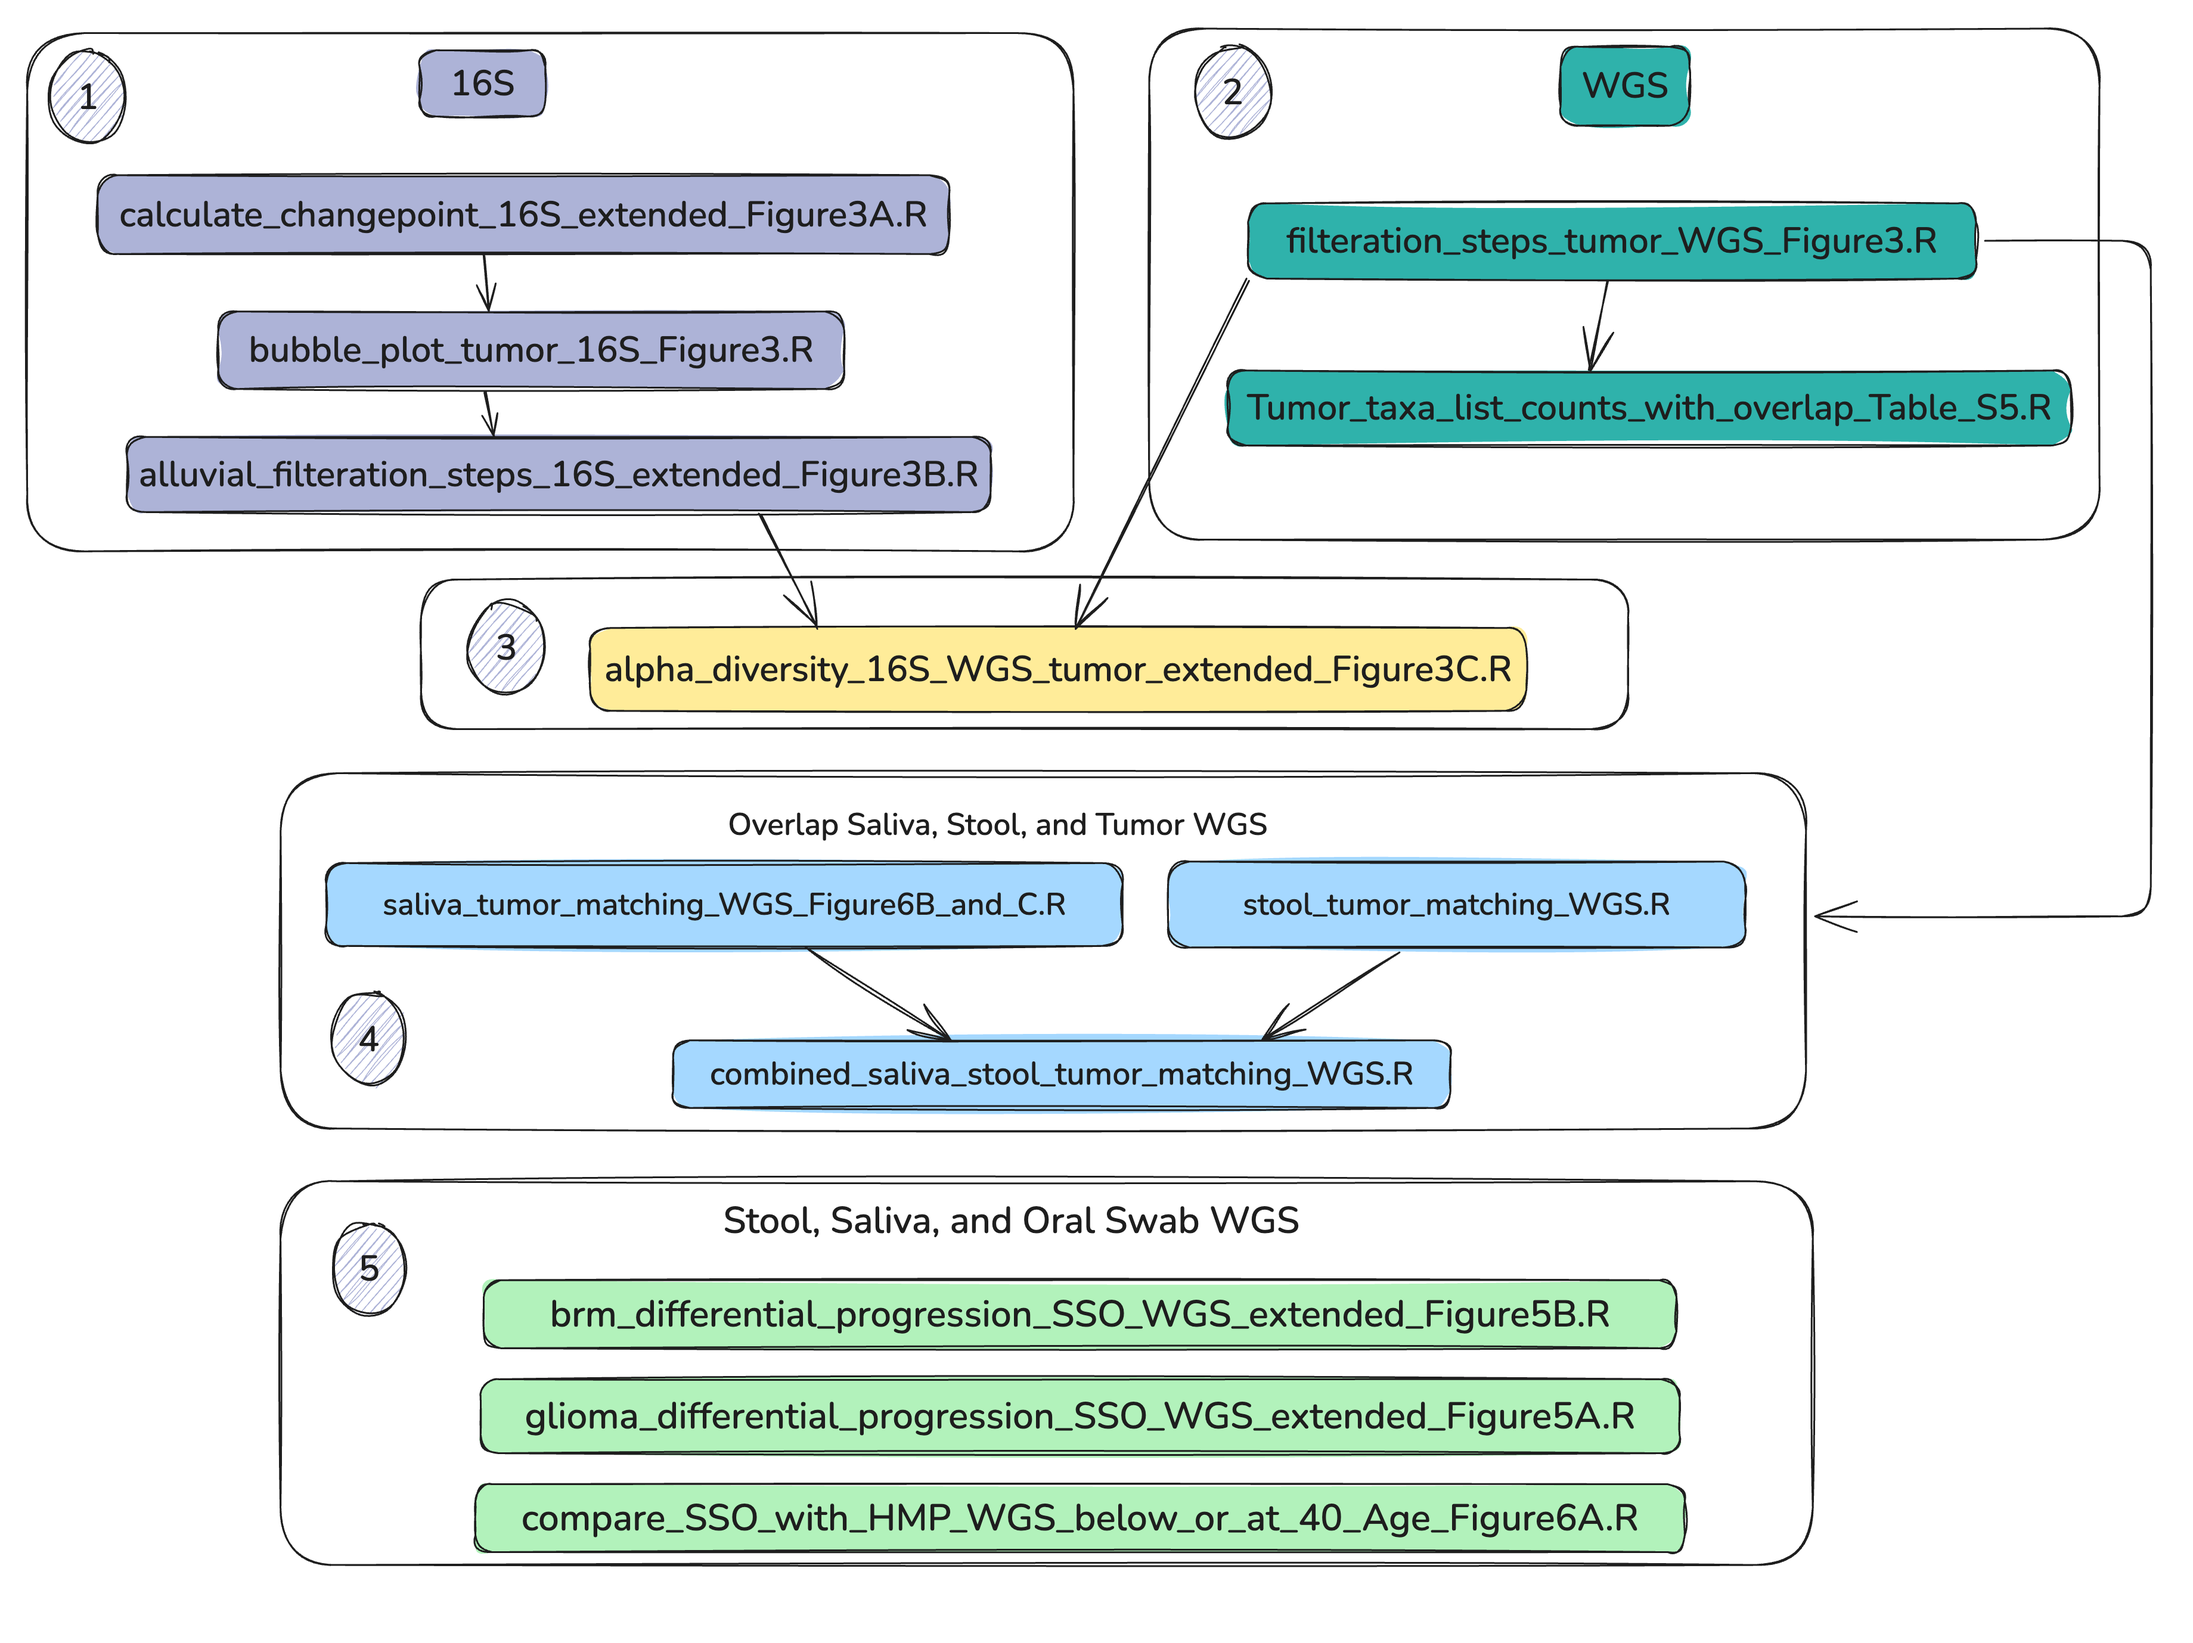
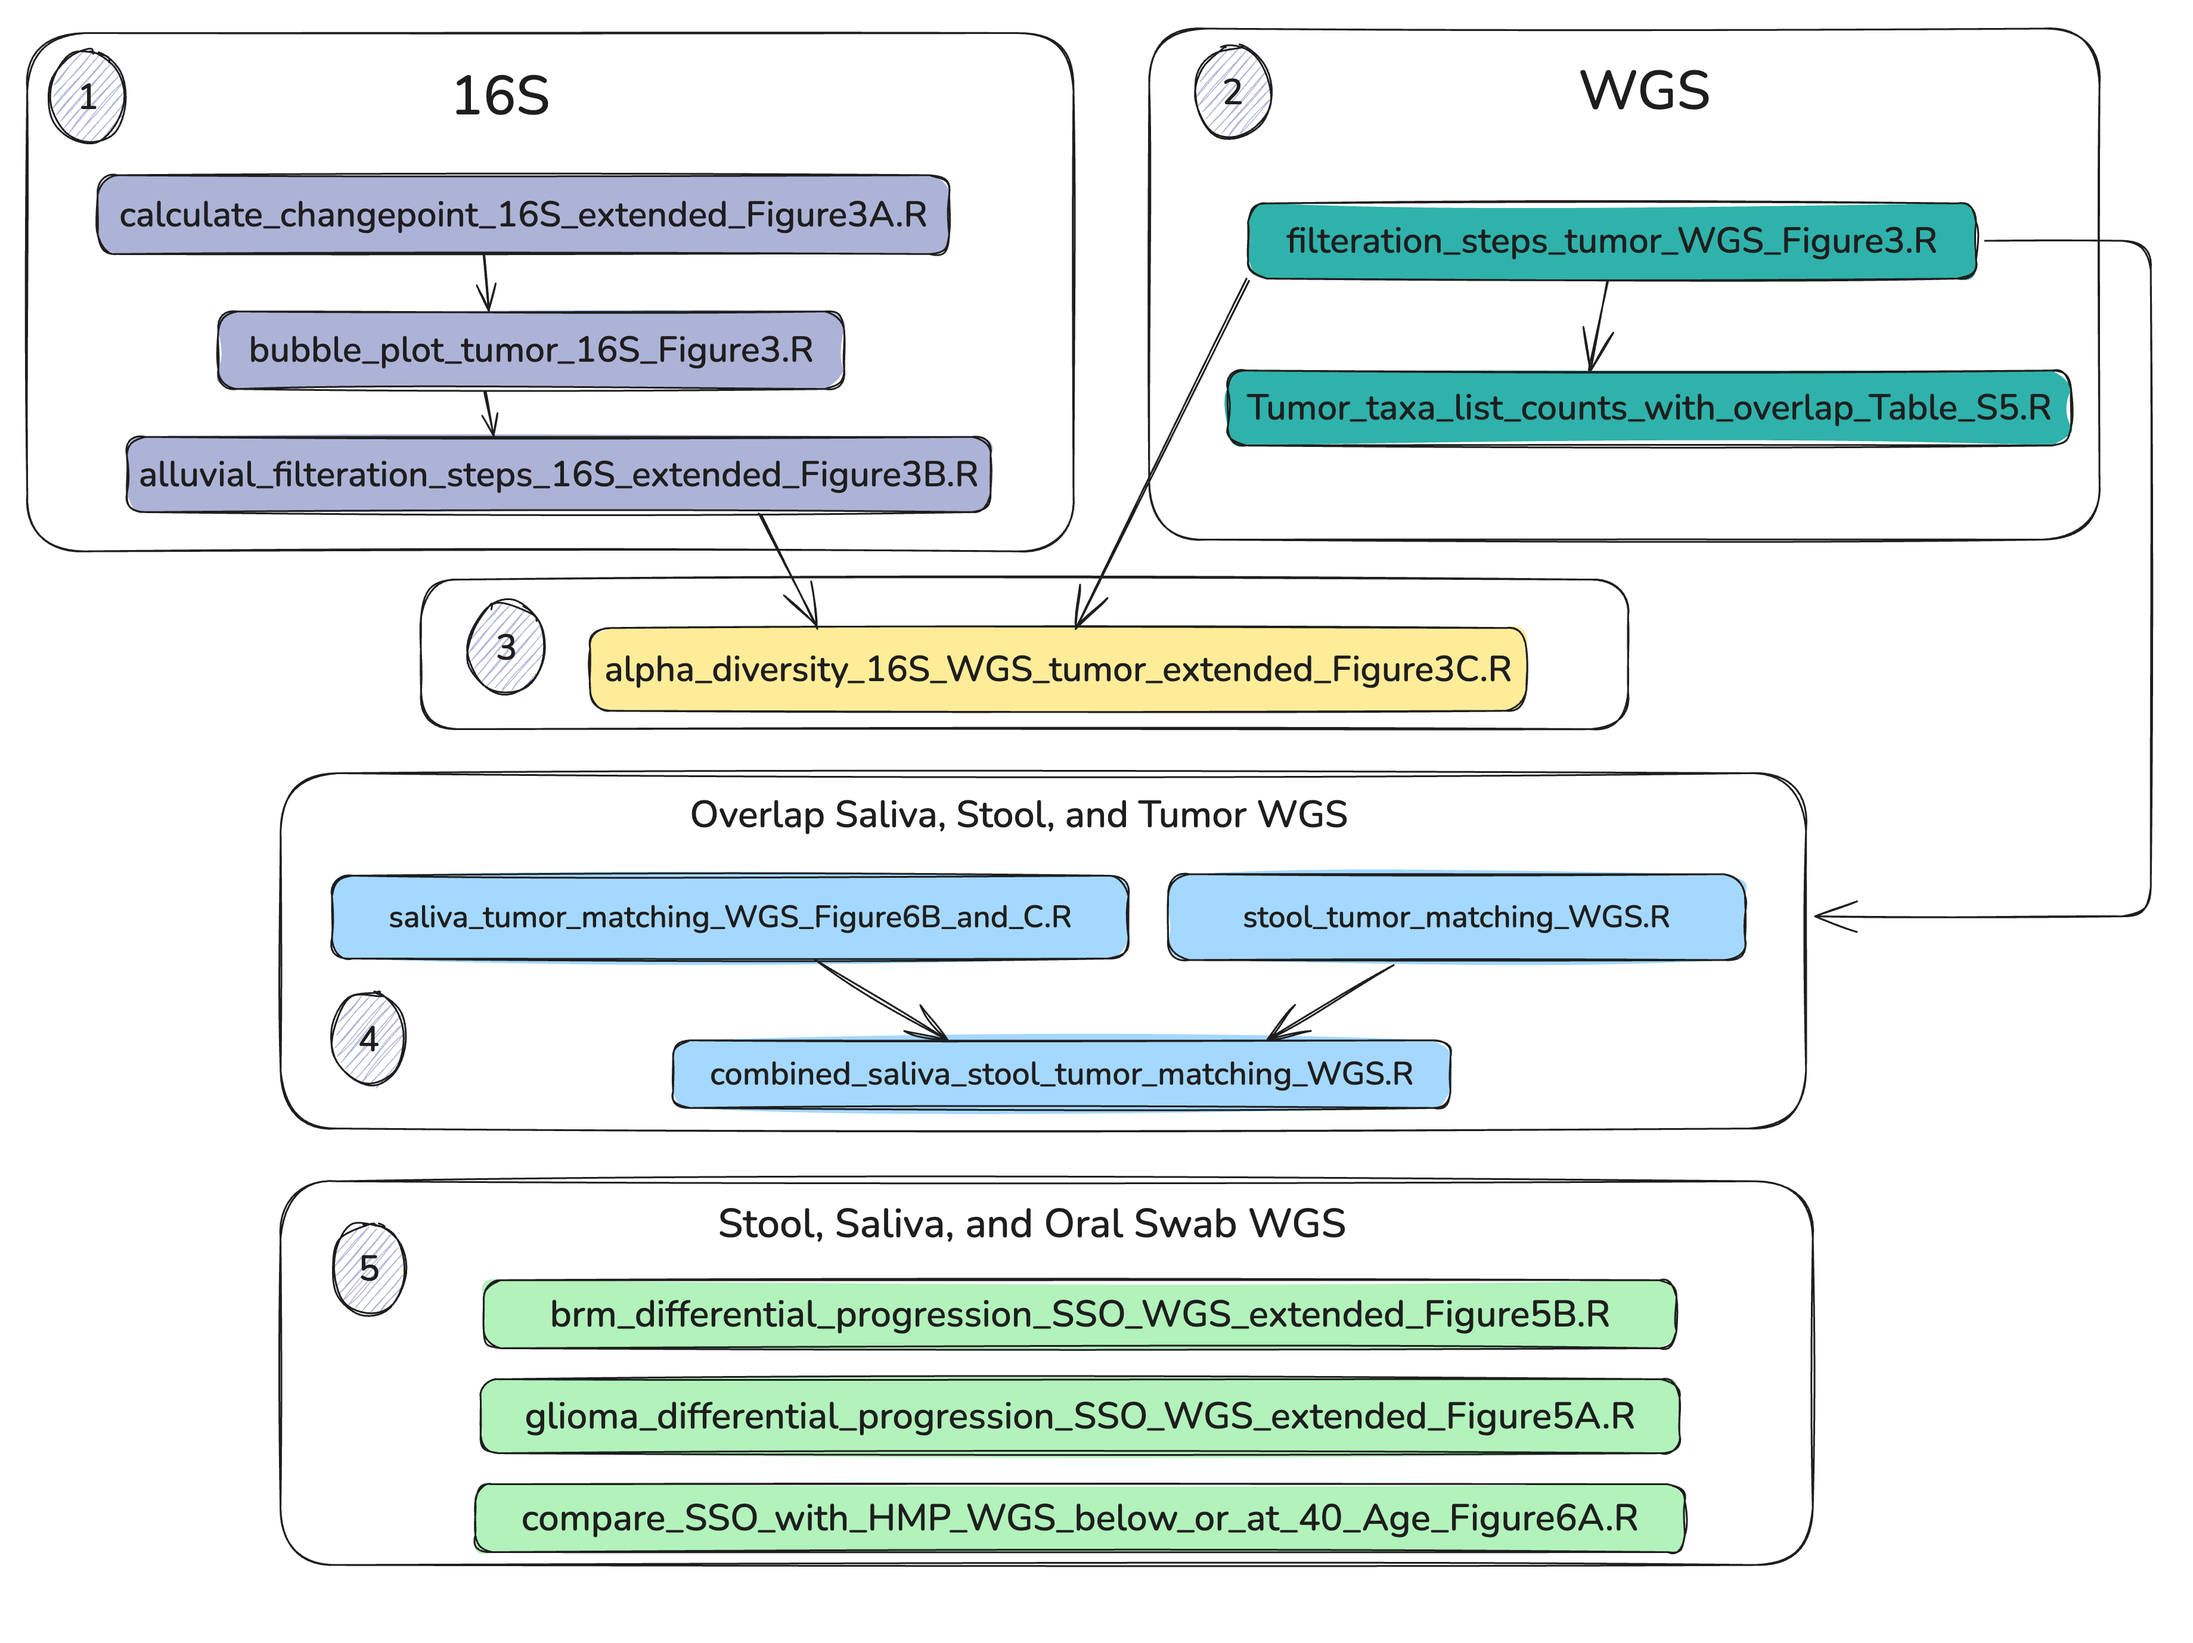
Added comments and fixed minor typos

diff --git a/Microbiome_Brain_Tumors/README.md b/Microbiome_Brain_Tumors/README.md
@@ -38,9 +38,9 @@ for dir in $(ls -d ./scripts/[0-9]*_* | sort -n); do echo "Directory: $dir"; fin
 ```
 
 
-The `src folder` contains all the scripts for common function and loading libraries
+The `src folder` contains all the scripts for common function and loading libraries.
 
-The `script folder` contains all the scripts under numbered folder to guide the users for order or executing scripts
+The `script folder` contains all the scripts under numbered folder to guide the users for order of executing scripts.
 
 `data`  folder contains
 
@@ -50,8 +50,8 @@ The `script folder` contains all the scripts under numbered folder to guide the 
 
 `output` folder contains
 
-* `figures` : figures generated during the analysis
-* `tables` : Summary and stats table generated during the analysis
+* `figures` : figures generated during the analysis.
+* `tables` : Summary and stats table generated during the analysis.
 
 ``session_info.txt`` : This file contains all the packages that are loaded in the R environment during the analysis. 
 
